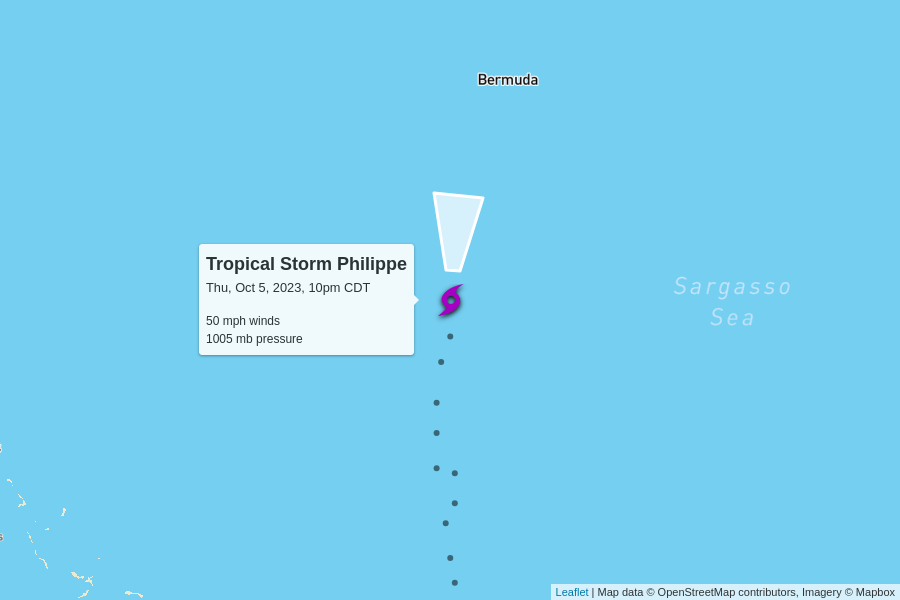
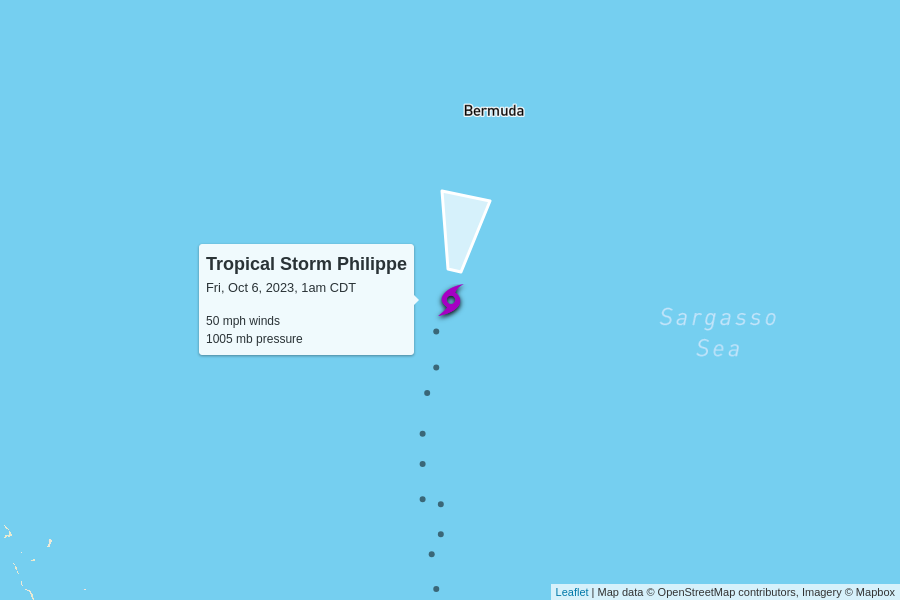
automatic update

diff --git a/docs/index.html b/docs/index.html
@@ -102,7 +102,7 @@
         <td colspan="6" class="storm category-0" >
           <h2>
             Tropical Storm Philippe
-            <p class="updated">last updated <span data-time>2023-10-06T03:00:00.000Z</span></p>
+            <p class="updated">last updated <span data-time>2023-10-06T06:00:00.000Z</span></p>
           </h2>
         </td>
       </tr>
@@ -122,7 +122,7 @@
         <td>
           16 mph to the north
           <br/>
-          <span style="display: inline-block; font-size: 1.5em; transform: rotate(5deg);">↑</span>
+          <span style="display: inline-block; font-size: 1.5em; transform: rotate(10deg);">↑</span>
         </td>
         <td><a href="https://raw.githubusercontent.com/mgwalker/atlantic-hurricanes/main/data/csv/AL172023.csv">AL172023.csv</a></td>
         <td><a href="https://www.nhc.noaa.gov/archive/2023/PHILIPPE.shtml?">NHC advisories</a></td>
